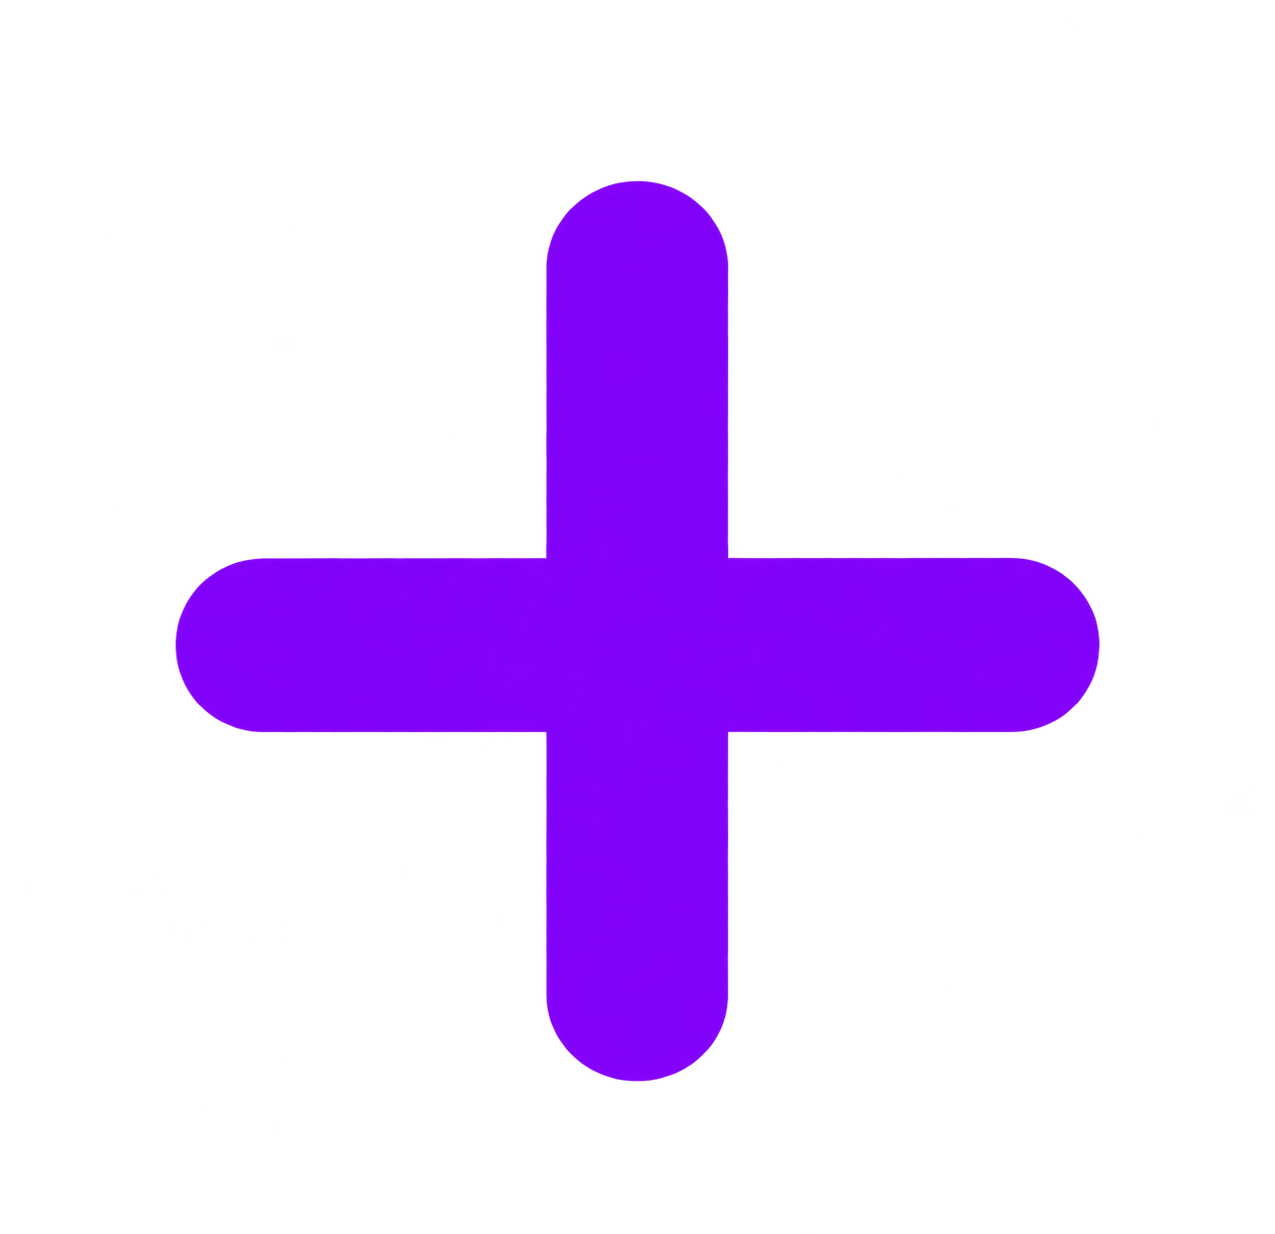
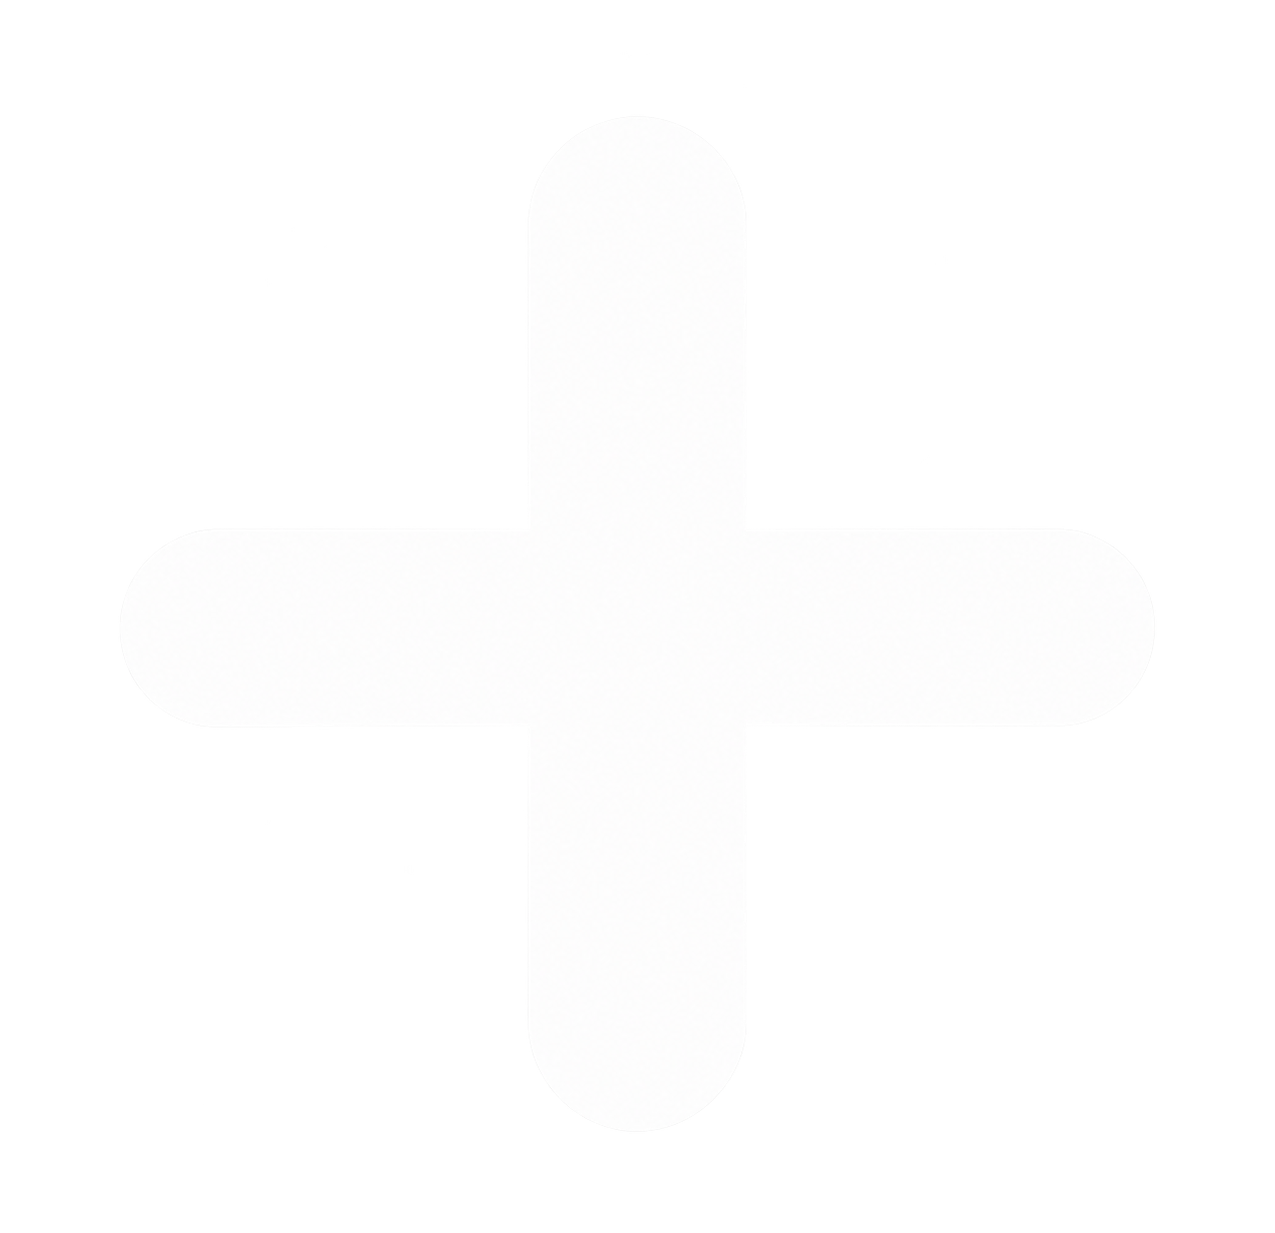
change add task button and welcome text color to #8B5CF6

Changed region(s): [[0.1224, 0.1233, 0.8871, 0.8938]]

diff --git a/static/js/home.js b/static/js/home.js
@@ -24,16 +24,6 @@ let pendingButtonActive = true;
 let deletedButtonActive = false;
 let completedButtonActive = false;
 
-function changeSearchCatImage(status){
-    const searchCatImage = document.querySelector('.search-bar-cat');
-    const cats = {
-        'PENDING': '../static/images/laying-cat-01.png',
-        'COMPLETED': '../static/images/laying-cat-02.png',
-        'DELETED': '../static/images/laying-cat-03.png'
-    }
-    searchCatImage.setAttribute('src', cats[status])
-}
-
 function setUpNavbar() {
 
     const pendingButtons = document.querySelectorAll(".pending-btn");
@@ -62,7 +52,6 @@ function setUpNavbar() {
         deletedButtonActive = false;
         completedButtonActive = false;
 
-        changeSearchCatImage("PENDING");
     });
     })
 
@@ -77,7 +66,6 @@ function setUpNavbar() {
         pendingButtonActive = false;
         deletedButtonActive = true;
         completedButtonActive = false;
-        changeSearchCatImage("DELETED");
     });
     })
 
@@ -91,7 +79,6 @@ function setUpNavbar() {
         pendingButtonActive = false;
         deletedButtonActive = false;
         completedButtonActive = true;
-        changeSearchCatImage("COMPLETED");
     });
     })
     accountButtons.forEach(accountButton => {

diff --git a/static/styles/home.css b/static/styles/home.css
@@ -7,7 +7,7 @@
     margin: 0;
 }
 .username-span{
-    color: purple;
+    color: #8B5CF6;
 }
 .main-nav-buttons a{
     color: black;
@@ -111,7 +111,7 @@
 .add-task-btn{
     height: 3rem;
     width: 3rem;
-    background-color: rgb(255, 255, 255);
+    background-color: #8B5CF6;
     padding: 0.5rem;
     font-size: 1.3rem;
     font-weight: bold;
@@ -122,7 +122,7 @@
     bottom: 3rem;
 }
 .add-task-btn:hover{
-    background-color: rgb(193, 193, 193);
+    background-color: #9f7df0;
 }
 .message{
     text-align: center;

diff --git a/static/js/communityPage.js b/static/js/communityPage.js
@@ -1,6 +1,5 @@
 
 
-console.log("Hello")
 
 async function getMessages() {
     const response = await fetch('http://127.0.0.1:5000/community_messages')
@@ -64,7 +63,8 @@ async function initializeMessageBox() {
 })
 }
 
+
 showMessages()
 
-
 initializeMessageBox()
+
